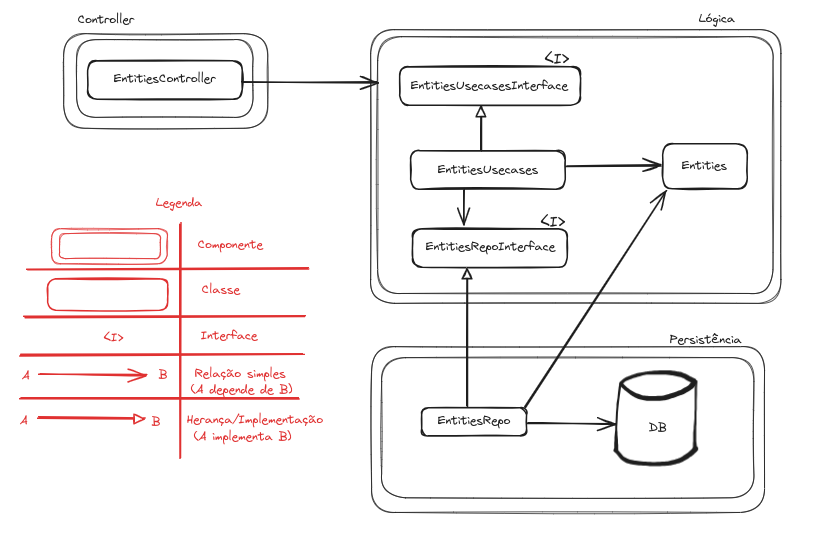
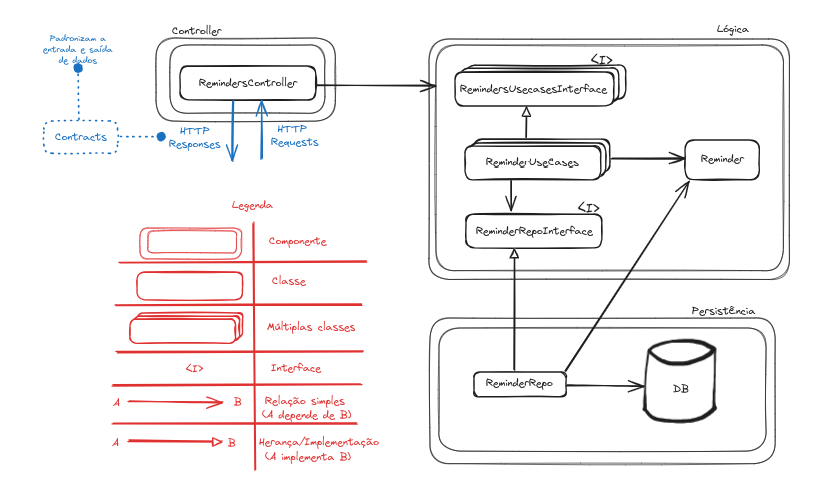
Atualizei o readme, adicionei scroll na lista de lembretes e limite máximo no nome

Changed region(s): [[0.0306, 0.0305, 0.9792, 0.9756], [0.1836, 0.3659, 0.2448, 0.3963]]

diff --git a/Frontend/src/App.css b/Frontend/src/App.css
@@ -50,6 +50,9 @@
 
 .reminder-list {
   width: 100%;
+  height: 400px;
+  max-height: 400px;
+  overflow-y: auto;
 }
 
 .reminder {

diff --git a/Solution/API/Entities/Reminder.cs b/Solution/API/Entities/Reminder.cs
@@ -1,3 +1,4 @@
+using System.Text;
 using API.Usecases.Errors;
 using ErrorOr;
 
@@ -17,23 +18,45 @@ public class Reminder
     }
 
     public static ErrorOr<Reminder> Create(string name, DateTime date)
+{
+    List<Error> errors = new();
+
+    if (string.IsNullOrWhiteSpace(name))
     {
-        List<Error> errors = new();
-        if (string.IsNullOrWhiteSpace(name))
-        {
-            errors.Add(RemindersErrors.Reminders.InvalidName);
-        }
-        if (date <= DateTime.Now)
-        {
-            errors.Add(RemindersErrors.Reminders.InvalidDate);
-        }
-
-        if (errors.Count > 0)
-        {
-            return errors;
-        }
-
-        return new Reminder(Guid.NewGuid(), name, date);
+        errors.Add(RemindersErrors.Reminders.InvalidName);
+    }
+    else if (name.Length > 300)
+    {
+        errors.Add(RemindersErrors.Reminders.InvalidName);
+    }
+    else if (!IsValidUtf8(name))
+    {
+        errors.Add(RemindersErrors.Reminders.InvalidName);
     }
 
+    if (date <= DateTime.Now)
+    {
+        errors.Add(RemindersErrors.Reminders.InvalidDate);
+    }
+
+    if (errors.Count > 0)
+    {
+        return errors;
+    }
+
+    return new Reminder(Guid.NewGuid(), name, date);
+}
+
+    private static bool IsValidUtf8(string text)
+    {
+        try
+        {
+            Encoding.UTF8.GetBytes(text);
+            return true;
+        }
+        catch (EncoderFallbackException)
+        {
+            return false;
+        }
+    }
 }

diff --git a/Solution/API/Program.cs b/Solution/API/Program.cs
@@ -34,10 +34,7 @@ var app = builder.Build();
     app.UseAuthorization();
     
     app.MapControllers();
-}
 
-if (app.Environment.IsDevelopment())
-{
     app.UseSwagger();
     app.UseSwaggerUI();
 }

diff --git a/README.md b/README.md
@@ -7,6 +7,15 @@ Repositório referente ao processo seletivo para estágio na DTI. Instruções f
 **Linkedin:** https://www.linkedin.com/in/pedro-nllambert/  
 **Telefone:** 31 99828-8251  
 
+- [Premissas Assumidas](#premissas-assumidas)
+- [Instruções para Executar o Sistema](#instruções-para-executar-o-sistema)
+    - [Com docker-compose](#docker-compose)
+    - [Com docker](#docker)
+    - [Sem containers ("manual")](#manual)
+- [Tecnologias, ferramentas e linguagens utilizadas](#tecnologiasferramentaslinguagens-utilizadas)
+- [Decisões de projeto: arquitetura da solução e processo de desenvolvimento](#decisões-de-projeto)
+- [GIFs da aplicação funcionando](#gifs-com-a-aplicação-funcionando)
+
 ## Premissas Assumidas
 
 - Não será necessário autenticação/validação, visto que isso não foi definido no PDF de instruções.
@@ -77,12 +86,22 @@ Por último, o princípio de segregação de interfaces é o único que não ser
 
 ![Arquitetura da aplicação](docs/arquitetura.png)
 
+
+Alguns detalhes importantes da implementação são:
+
+- Além da validação dos dados no front-end, padronizei os modelos de entrada e saída em "contracts" e utilizei o design pattern abstract factory para a criação dos lembretes, aplicando as regras de negócio.
+- Adicionei validações para datas mal formatadas, datas passadas e nomes inexistentes. Também incluí a validação de limite máximo no tamanho dos nomes para garantir que não armazenaremos dados excessivamente grandes no banco de dados.
+- Implementei a validação de caracteres UTF-8 para garantir que não serão salvos caracteres problemáticos no banco de dados.
+- A interface da aplicação possui scroll na lista de lembretes e regras CSS para dispositivos com telas pequenas, garantindo uma experiência de usuário adequada em diferentes dispositivos.
+
+
+## GIFs com a aplicação funcionando
+
+
 #### TODO
 Separar os usecases
-Colocar o reminder no lugar de entities na foto da arq
 gifs fucnionando
 
 ### EXPOR ESSES NO MD
 limite maximo (300 chars)
 validação de chars (utf8)
-scroll
